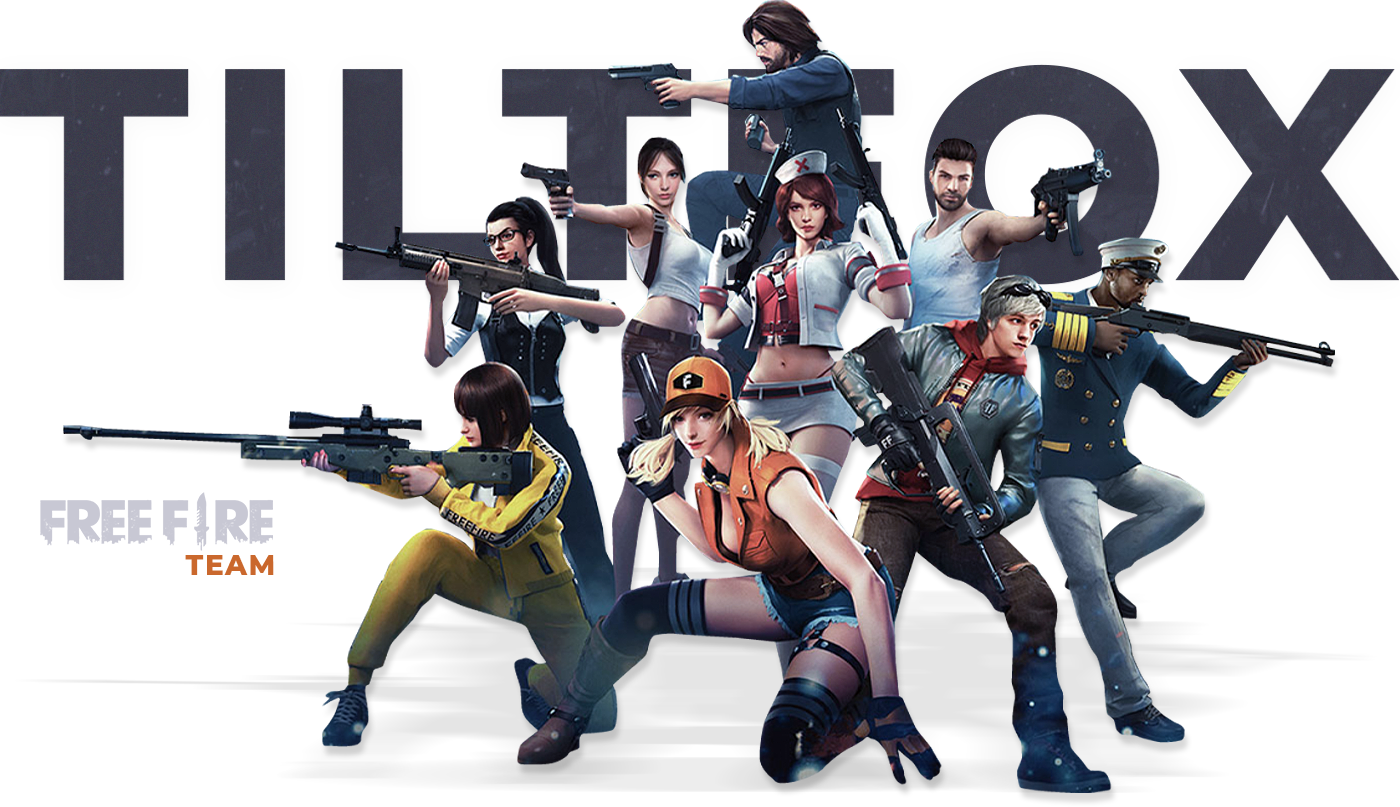
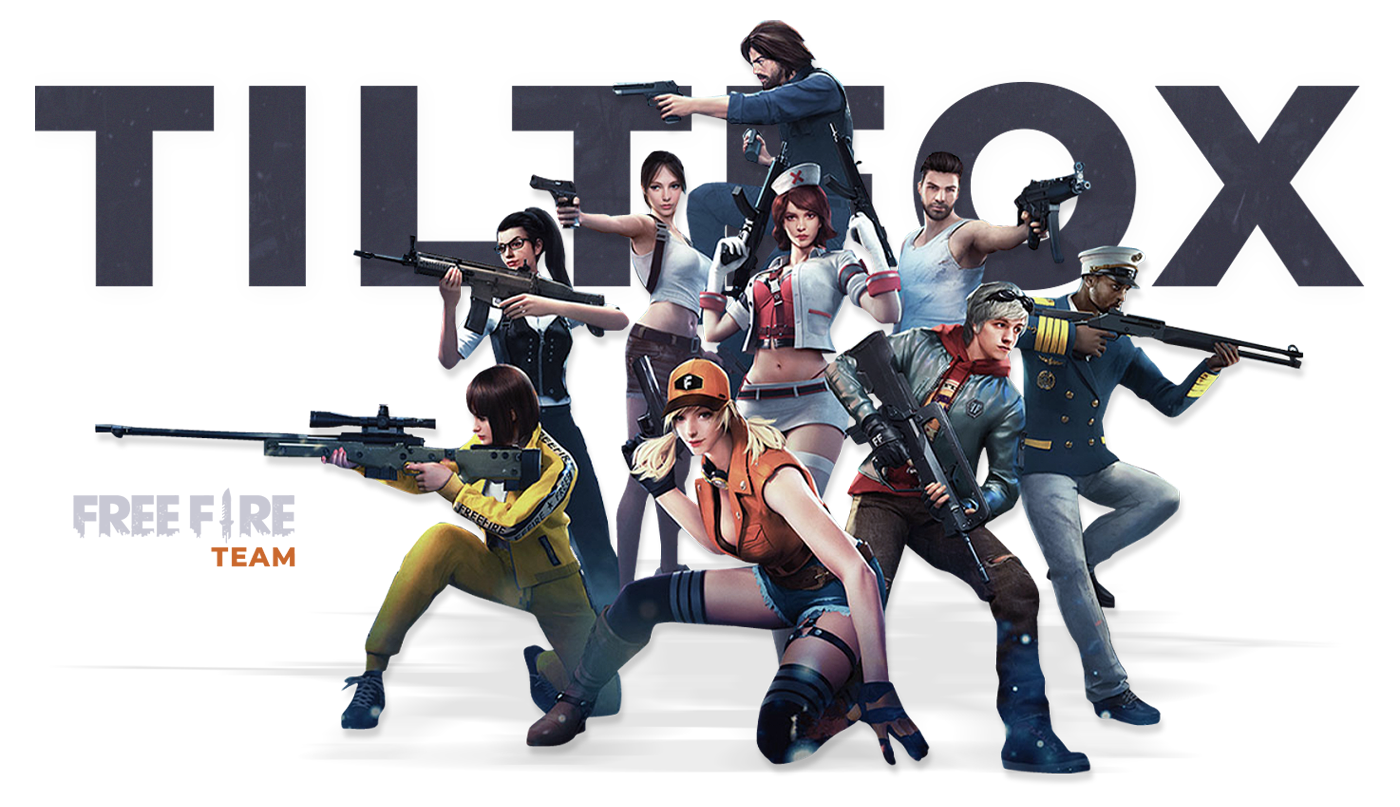
Ajustes finais home

diff --git a/assets/css/main.css b/assets/css/main.css
@@ -2,8 +2,9 @@
 
 body{
     font-family: 'Montserrat', sans-serif;
-    background: url(../images/bg-principal.png);
+    background: url(../images/bg-principal.png) top center;
     background-size: cover;
+    background-attachment: fixed;
 }
 
 .container {
@@ -14,11 +15,30 @@ body{
     height: 100vh;
 }
 
+/* animations */
+ 
+  @keyframes cssAnimation {
+    from {
+      -webkit-transform: scale(1) translate(0px);
+    }
+    to {
+      -webkit-transform: scale(1.03) translate(0px);
+    }
+  }
+  @-webkit-keyframes cssAnimation {
+    from {
+      -webkit-transform: scale(1) translate(0px);
+    }
+    to {
+      -webkit-transform: scale(1.03) translate(0px);
+    }
+  }
+
 
 /*/ CABECALHO /*/
 
 header {
-    padding: 40px 0px;
+    padding: 30px 0px 0px 0px;
 }
 
 header .container {
@@ -28,8 +48,8 @@ header .container {
 }
 
 header .logo {
-    max-width: 79px;
-    margin-right: 30px;
+    max-width: 80px;
+    margin-right: 35px;
 }
 
 header .logo img {
@@ -54,7 +74,7 @@ header nav ul {
 
 header nav ul li a {
     font-weight: 700;
-    font-size: 20px;
+    font-size: 18px;
 }
 
 header .menu_principal nav ul li {
@@ -88,7 +108,38 @@ header nav ul li a:hover {
 
 
 /*/ BANNER /*/
-
+#banners {
+    position: relative;
+    z-index: 1;
+    height: 100%;
+    max-width: 1160px;
+    margin: 50px auto;
+  }
+  #banners * {
+    outline: none;
+  }
+  #banners .slider-track {
+    -webkit-transition: all 1s cubic-bezier(0.7, 0, 0.3, 1);
+    transition: all 1s cubic-bezier(0.7, 0, 0.3, 1);
+  }
+  #banners div {
+    height: 100%;
+    position: relative;
+    z-index: 1;
+  }
+  #banners div img {
+    width: 100%;
+    -webkit-transition: all 1s cubic-bezier(0.7, 0, 0.3, 1);
+    transition: all 1s cubic-bezier(0.7, 0, 0.3, 1);
+    -webkit-transform: scale(1.03);
+            transform: scale(1.03);
+  }
+  #banners div.slick-active img {
+    -webkit-transform: scale(1);
+            transform: scale(1);
+    -webkit-animation: cssAnimation 5s 1 ease-in-out forwards;
+    animation: cssAnimation 5s 1 ease-in-out forwards;
+  }
 
 /* dots */
 ul.slick-dots {
@@ -118,3 +169,26 @@ ul.slick-dots li.slick-active button {
 
 
 /*/ FOOTER /*/
+
+
+@media screen and (max-width: 1400px){
+    header {
+        padding: 30px 25px 0px 25px;
+    }
+
+    #banners {
+        position: relative;
+        z-index: 1;
+        height: 100%;
+        max-width: 1140px;
+        margin: 50px auto;
+    }
+    #banners * {
+        outline: none;
+    }
+    #banners div {
+        height: 100%;
+        position: relative;
+        z-index: 1;
+    }
+}

diff --git a/assets/js/main.js b/assets/js/main.js
@@ -1,15 +1,17 @@
 /*/ CARROUSEL /*/
 
 $("#banners").slick({
-    dots: true,
+    draggable: true,
+    autoplay: true,
     autoplaySpeed: 5000,
-    infinite: true,
-    pauseOnHover:false,
-    autoplay:true,
     arrows: false,
-    speed: 1000,
-    slidesToShow: 1,
-    centerMode: true,
-    variableWidth: true,
-    easing:'linear',
+    dots: true,
+    fade: true,
+    speed: 800,
+    infinite: true,
+    cssEase: 'ease-in-out',
+    touchThreshold: 100,
+    adaptiveHeight: true,
+    pauseOnHover: false,
+    pauseOnFocus: false,
 });
